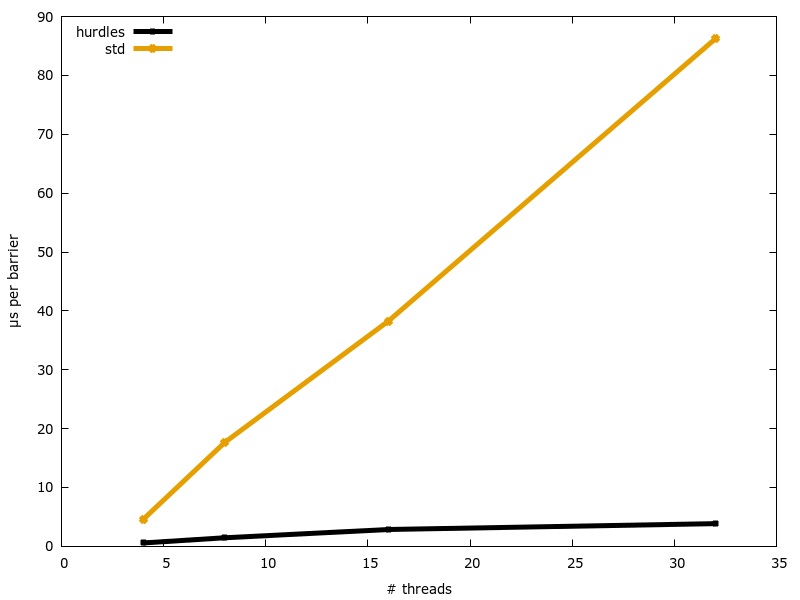
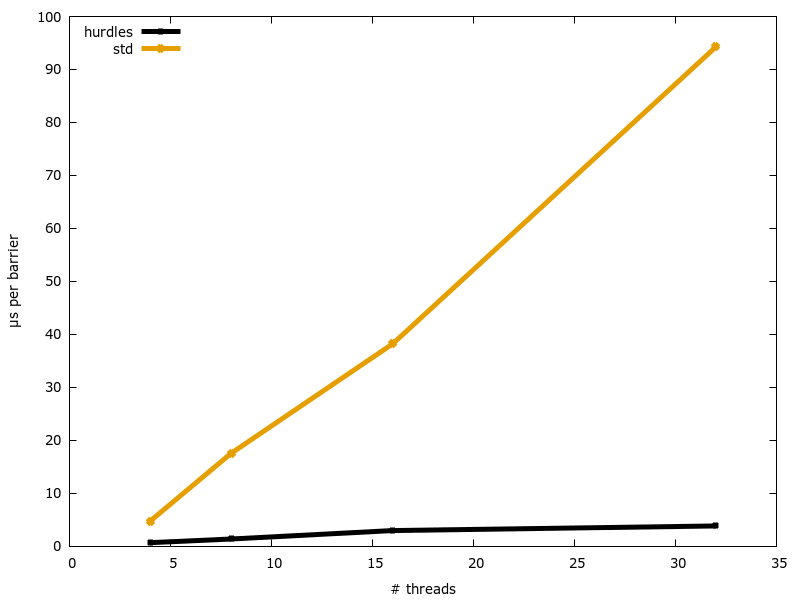
Eventually yield when spinning

diff --git a/src/lib.rs b/src/lib.rs
@@ -38,23 +38,23 @@
 //! Modern laptop with 2-core (4HT) Intel Core i7-5600U @ 2.60GHz:
 //!
 //! ```text
-//! test tests::ours_2 ... bench:         135 ns/iter (+/- 1)
-//! test tests::std_2  ... bench:         276 ns/iter (+/- 181)
-//! test tests::ours_4 ... bench:         235 ns/iter (+/- 14)
-//! test tests::std_4  ... bench:      11,882 ns/iter (+/- 111)
+//! test tests::ours_2 ... bench:         190 ns/iter (+/- 24)
+//! test tests::std_2  ... bench:       2,054 ns/iter (+/- 822)
+//! test tests::ours_4 ... bench:         236 ns/iter (+/- 2)
+//! test tests::std_4  ... bench:      11,913 ns/iter (+/- 60)
 //! ```
 //!
 //! Dell server with 2x 10-core (20HT) Intel Xeon E5-2660 v3 @ 2.60GHz across two NUMA nodes:
 //!
 //! ```text
-//! test tests::ours_4  ... bench:         568 ns/iter (+/- 4)
-//! test tests::std_4   ... bench:       4,568 ns/iter (+/- 88)
-//! test tests::ours_8  ... bench:       1,454 ns/iter (+/- 14)
-//! test tests::std_8   ... bench:      17,668 ns/iter (+/- 322)
-//! test tests::ours_16 ... bench:       2,856 ns/iter (+/- 32)
-//! test tests::std_16  ... bench:      38,254 ns/iter (+/- 597)
-//! test tests::ours_32 ... bench:       3,848 ns/iter (+/- 36)
-//! test tests::std_32  ... bench:      86,194 ns/iter (+/- 15,506)
+//! test tests::ours_4  ... bench:         689 ns/iter (+/- 9)
+//! test tests::std_4   ... bench:       4,762 ns/iter (+/- 151)
+//! test tests::ours_8  ... bench:       1,380 ns/iter (+/- 13)
+//! test tests::std_8   ... bench:      17,545 ns/iter (+/- 288)
+//! test tests::ours_16 ... bench:       2,970 ns/iter (+/- 33)
+//! test tests::std_16  ... bench:      38,215 ns/iter (+/- 469)
+//! test tests::ours_32 ... bench:       3,838 ns/iter (+/- 129)
+//! test tests::std_32  ... bench:      94,266 ns/iter (+/- 12,243)
 //! ```
 //!
 //! [1]: https://dl.acm.org/citation.cfm?doid=103727.103729
@@ -65,6 +65,8 @@
 
 #[cfg(feature = "nightly")]
 extern crate test;
+
+extern crate parking_lot_core;
 
 use std::sync::{atomic, Arc};
 
@@ -172,8 +174,10 @@ impl Barrier {
             BarrierWaitResult(true)
         } else {
             // wait for everyone to reach the barrier
+            let mut wait = parking_lot_core::SpinWait::new();
             while self.inner.gsense.load(atomic::Ordering::SeqCst) != self.lsense {
-                // spin
+                // XXX: in theory we could go even further and park the thread eventually
+                wait.spin();
             }
             BarrierWaitResult(false)
         }

diff --git a/README.md b/README.md
@@ -44,23 +44,23 @@ Braun's [Introduction to barrier algorithms][2].
 Modern laptop with 2-core (4HT) Intel Core i7-5600U @ 2.60GHz:
 
 ```text
-test tests::ours_2 ... bench:         135 ns/iter (+/- 1)
-test tests::std_2  ... bench:         276 ns/iter (+/- 181)
-test tests::ours_4 ... bench:         235 ns/iter (+/- 14)
-test tests::std_4  ... bench:      11,882 ns/iter (+/- 111)
+test tests::ours_2 ... bench:         190 ns/iter (+/- 24)
+test tests::std_2  ... bench:       2,054 ns/iter (+/- 822)
+test tests::ours_4 ... bench:         236 ns/iter (+/- 2)
+test tests::std_4  ... bench:      11,913 ns/iter (+/- 60)
 ```
 
 Dell server with 2x 10-core (20HT) Intel Xeon E5-2660 v3 @ 2.60GHz across two NUMA nodes:
 
 ```text
-test tests::ours_4  ... bench:         568 ns/iter (+/- 4)
-test tests::std_4   ... bench:       4,568 ns/iter (+/- 88)
-test tests::ours_8  ... bench:       1,454 ns/iter (+/- 14)
-test tests::std_8   ... bench:      17,668 ns/iter (+/- 322)
-test tests::ours_16 ... bench:       2,856 ns/iter (+/- 32)
-test tests::std_16  ... bench:      38,254 ns/iter (+/- 597)
-test tests::ours_32 ... bench:       3,848 ns/iter (+/- 36)
-test tests::std_32  ... bench:      86,194 ns/iter (+/- 15,506)
+test tests::ours_4  ... bench:         689 ns/iter (+/- 9)
+test tests::std_4   ... bench:       4,762 ns/iter (+/- 151)
+test tests::ours_8  ... bench:       1,380 ns/iter (+/- 13)
+test tests::std_8   ... bench:      17,545 ns/iter (+/- 288)
+test tests::ours_16 ... bench:       2,970 ns/iter (+/- 33)
+test tests::std_16  ... bench:      38,215 ns/iter (+/- 469)
+test tests::ours_32 ... bench:       3,838 ns/iter (+/- 129)
+test tests::std_32  ... bench:      94,266 ns/iter (+/- 12,243)
 ```
 
 [1]: https://dl.acm.org/citation.cfm?doid=103727.103729
